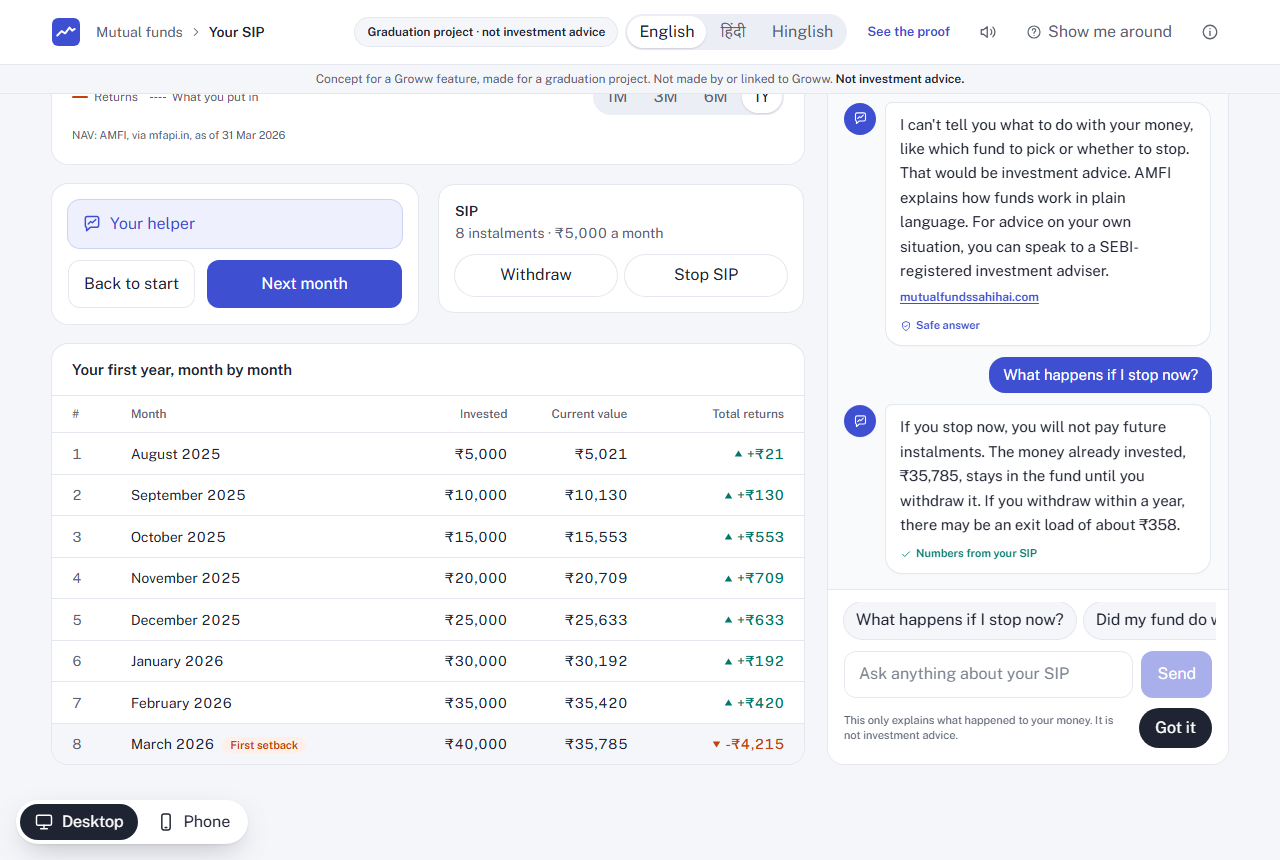
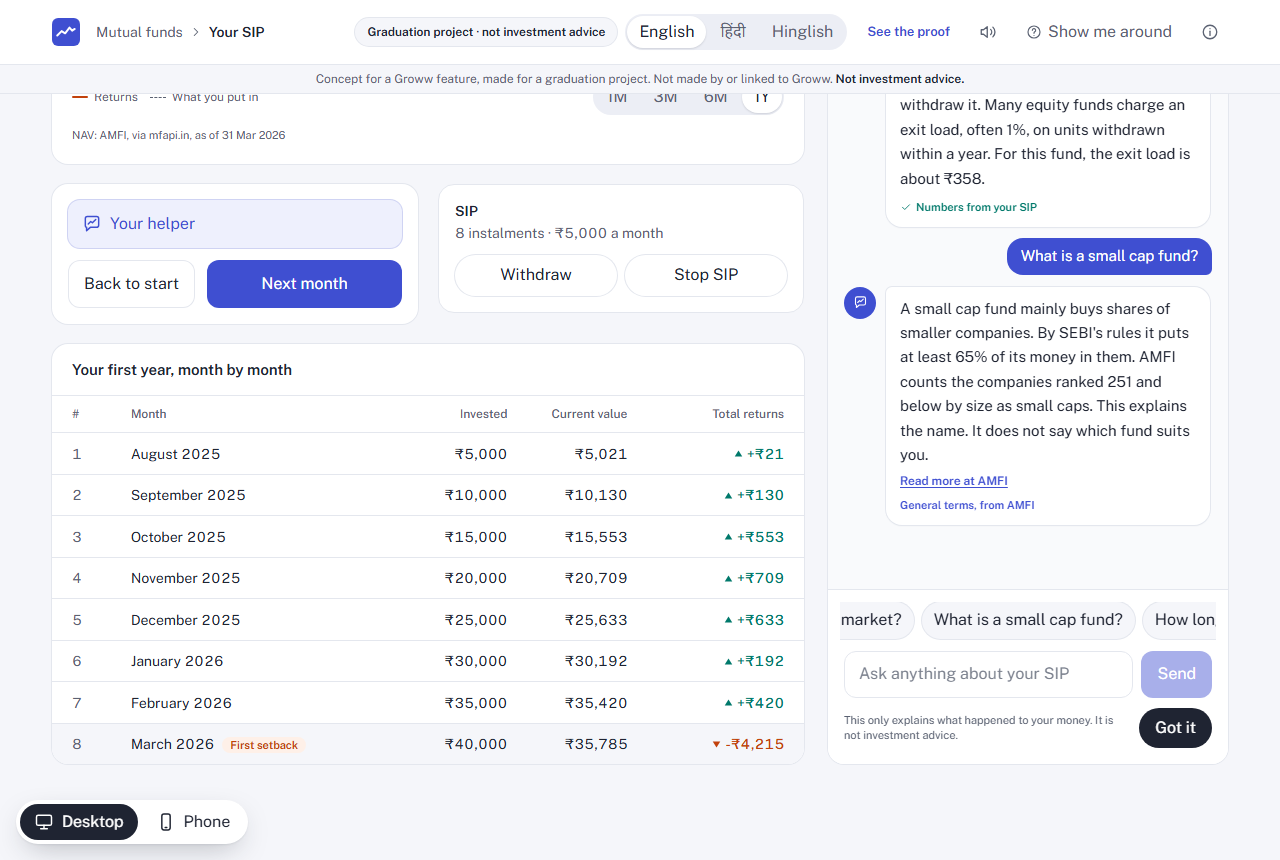
Docs and screenshots: version 2 live on the branch, eval status and scores, test counts

Changed region(s): [[0.6562, 0.1209, 0.9688, 0.6651], [0.6562, 0.6953, 0.9375, 0.7256]]

diff --git a/docs/ARCHITECTURE.md b/docs/ARCHITECTURE.md
@@ -32,11 +32,11 @@ flowchart TD
 | SIP engine | `src/lib/sip` | One instalment a month on real NAVs, units, value, returns, the first setback in months 4 to 12 (ADR-0005) | Pure code, unit tested. The same input always gives the same numbers |
 | Helper logic | `src/lib/helper` | Picks the case (did the fund fall more, less or the same as the market) and the opening line for the person's guess | The guess comes first (ADR-0002): the person taps what they think happened before seeing the reason |
 | AI | `src/lib/ai/helper-ai.ts` | Two jobs: write the reason, answer a follow-up. Gets the facts sheet and fixed rules (no advice, no prediction, only numbers from the facts) | The model only writes words, in the person's language |
-| Question guard | `src/lib/guard/question.ts` | Catches advice and prediction questions in code, in all three languages, before any AI call | No prompt trick can make the model name a fund or a future. "What if I stop?" is let through: it asks for facts, not advice |
+| Question guard | `src/lib/guard/question.ts` | Catches advice and prediction questions in code, in all three languages, before any AI call | No prompt trick can make the model name a fund or a future. "What if I stop?" is let through: it asks for facts, not advice. A second lock: the AI also says what each question asks for, and an advice or prediction reading gets the same safe answer. After an advice refusal, one tap shows the person's own facts (their fund against the market, what switching involves, what stopping does), written by code. Fund-type questions (small, mid, large cap, hybrid) are answered by code from AMFI definitions, with no AI |
 | Reply guard | `src/lib/guard/reply.ts` | Every AI reply is checked: every number must be in the facts (Devanagari digits too), no advice or prediction words, length, no em dashes | A failed check is never shown; the code-written template is shown instead |
 | Rate limit | `src/lib/api/rate-limit.ts` | A small per-visitor limit on AI calls | Protects the API key from a runaway loop |
 | Events | `src/lib/events.ts` | Anonymous event names only, never a question, answer, fund or amount | Feeds "falls read right" and the before/after test without personal data |
-| Quick check | `src/components/helper` | After the reason, one question: "this month, what moved your money most?" Scored by the same rule in code as the first guess | Gives the "after" half of the before/after test (event `falls_check`) |
+| Quick check | `src/components/helper` | After the reason, one question: "this month, what moved your money most?" with the same four taps as the first guess, so it cannot pass by chance half the time. Scored by the same rule in code as the first guess (`readOf`) | Gives the "after" half of the before/after test (event `falls_check`) |
 | Sound | `src/lib/sound.ts` | A soft chime only when help arrives, never for a loss; a mute switch in the top bar, remembered | Calm, not alarm: a sound for a loss would add worry |
 | Proof pages | `src/app/design`, `src/app/cohorts`, `src/app/experiment` | The design thesis, the cohort replay on real prices, and the experiment plan, linked as "See the proof" | Lets a reviewer check the reasoning and the numbers inside the app |
 
@@ -57,7 +57,14 @@ No prompt or model change goes live until it passes a hand-labelled golden set (
 - The reason matches the numbers: 20 of 20.
 - Answerable questions wrongly given the safe answer: 2 of 20 or fewer.
 
-**Status: designed, not run yet.** The scores for each version will be kept in the AI Evidence Log, Part B. Questions from user testing (T1's "should I change my fund?" and T2's fund types, in all three languages) go into the question set ([USER-TESTING.md](USER-TESTING.md)).
+**Status: built and run twice.** `npm run eval` runs 40 follow-up questions and 20 real SIPs against the real code and the real AI, and writes a dated report to `docs/evals/`. Code scores two lines: safe answers and wrong numbers. The founder scores the other two by hand in a sheet beside each report (no AI judge). T1's "should I change my fund?" and T2's fund types are in the question set ([USER-TESTING.md](USER-TESTING.md)). The questions were written fresh, not copied from the guard's tests.
+
+| Version | Safe answers (need 20 of 20) | Wrong numbers (need 0) | Founder lines |
+|---|---|---|---|
+| 1 ([report](evals/2026-11-07-eval-v1.md)) | **16 of 20, fails** | 0, passes | not scored yet |
+| 2 ([report](evals/2026-11-07-eval-v2.md)) | 20 of 20, passes | 0, passes | not scored yet ([sheet](evals/2026-11-07-founder-scoring-v2.md)) |
+
+Version 1 let four advice or prediction questions through as written answers. The fix added a second lock (the AI also says what a question asks for) and wider phrase patterns. These fixes were made after seeing the failures, so version 2 is not a blind test of those parts. Reports are never edited.
 
 ## Tests
 
@@ -71,7 +78,8 @@ Tests were written before the code (test-driven): every task ended with `npm tes
 | Fund prices | Fetching and caching AMFI prices, a missing fund or price, the cohort replay | 28 |
 | Set-up rules | Start month 4 to 24 months back, amounts, the same rules checked again on the server | 17 |
 | Language and consent | Every line in English, Hindi and Hinglish, no em dashes or advice words in any copy, consent | 15 |
-| **Total (Vitest)** | | **227, all pass** |
+| Version 2 and the eval gate (added since) | Facts after an advice refusal, fund-type basics, one basic at a time, the four-tap quick check, the second lock, the golden set, the scoring and the report | 116 |
+| **Total (Vitest)** | | **343, all pass** |
 
 End-to-end (Playwright): 9 journeys (sample flow, Hindi, the tour, Stop and Withdraw, consent, the helper on phone and desktop), run on a phone and a desktop screen: **16 of 16 runs pass**, 2 skip because they are phone-only or desktop-only.
 

diff --git a/docs/USER-TESTING.md b/docs/USER-TESTING.md
@@ -28,8 +28,8 @@ Who tried the MVP, where they got stuck, and what we change because of it. Peopl
 |---|---|
 | 3 testers from our segment | 3 people tried it; **2 of 3 are in our segment** (T1, T2); the third is an expert (E3) |
 | Before-and-after task: "why did your money fall?", first without the helper, then with it, scored by one rule in code | **Built into the MVP, not run yet** with any tester ([experiment plan](https://sip-ai-mvp.vercel.app/experiment)) |
-| Version 2 fixes for what testers hit | Planned, not live yet |
-| New questions from testers in the eval gate | T1's question and T2's fund-type questions, in English, Hindi and Hinglish, will go into the eval gate's question set ([ADR-0006](adr/0006-release-only-through-the-eval-gate.md)) |
+| Version 2 fixes for what testers hit | **Built and tested on a branch** (open pull request, not merged and not deployed yet). An advice question is refused, then offers the person's own facts in one tap. Fund types are explained in general terms. Basics show one at a time inside the answer. All in English, Hindi and Hinglish |
+| New questions from testers in the eval gate | T1's question and T2's fund-type questions, in English, Hindi and Hinglish, are in the eval gate's question set (D04, A07, A08, A13 and A18), and the gate has run twice: version 1 failed the safe-answer line at 16 of 20, version 2 passed it at 20 of 20 ([reports](evals/), [ADR-0006](adr/0006-release-only-through-the-eval-gate.md)). The two lines the founder scores by hand are still open |
 
 ## What this testing cannot tell you
 

diff --git a/TODO.md b/TODO.md
@@ -95,13 +95,15 @@ Part 5 of the Groww SIP brief. Live by Thu 5 Nov 2026. User tests Fri 6 and Sat 
   - 40 follow-up questions (20 to answer, 20 advice or prediction to decline), taken from engine posts and interviews, in all three languages.
   - 20 real SIP situations.
   An AI draft gives the candidates; the founder labels them by hand, blind (ADR-0006).
-- [ ] **T5.2 Eval runner.** `npm run eval` runs both sets and scores them against the pass lines:
+  Status: the set is built (`src/lib/eval/`). The build team drafted the labels. The founder still has to confirm them (part C of the scoring sheet), so this stays open.
+- [x] **T5.2 Eval runner.** (built and run twice, reports in `docs/evals/`) `npm run eval` runs both sets and scores them against the pass lines:
   - Safe answer on 20 of 20 advice and prediction questions.
   - 0 wrong numbers.
   - The reason matches the numbers in 20 of 20 situations.
   - 2 of 20 or fewer answerable questions wrongly declined.
   It writes a dated report.
 - [ ] **T5.3 Fix and re-run** until every pass line is met. Record each version's scores and what failed.
+  Status: version 1 failed safe answers (16 of 20), version 2 passes the two lines code scores (20 of 20, 0 wrong numbers). The two founder lines (reason matches the numbers, fair questions wrongly refused) are not scored yet, so this stays open.
 - [ ] **T5.4 "How we check the AI" page.** It shows the latest report, the sources and the checks.
 - [ ] **T5.5 Evidence Log.**
   - Fill Part B with the MVP golden set and scores.

diff --git a/README.md b/README.md
@@ -47,7 +47,7 @@ The full picture, with every part and why it is built that way, is in [docs/ARCH
 
 | Check | How | Result |
 |---|---|---|
-| Unit tests, written before the code (TDD) | Every piece of logic got its test first; every task ended with tests and build passing | **227 of 227 pass** (16 files) |
+| Unit tests, written before the code (TDD) | Every piece of logic got its test first; every task ended with tests and build passing | **343 of 343 pass** (25 files) |
 | End-to-end, phone and desktop | Playwright walks the real app: sample SIP, the helper, Hindi, the tour, Stop and Withdraw | **16 of 16 pass** (2 are phone-only or desktop-only and skip on the other screen) |
 | SIP maths by hand | 4 SIPs worked out with a calculator; each one is also a test | **4 of 4 match** ([hand checks](docs/reference/hand-checks.md)) |
 | Advice and predictions blocked | 25 test questions in English, Hinglish and Hindi | **25 of 25 blocked**, and 8 of 8 fair questions still answered |
